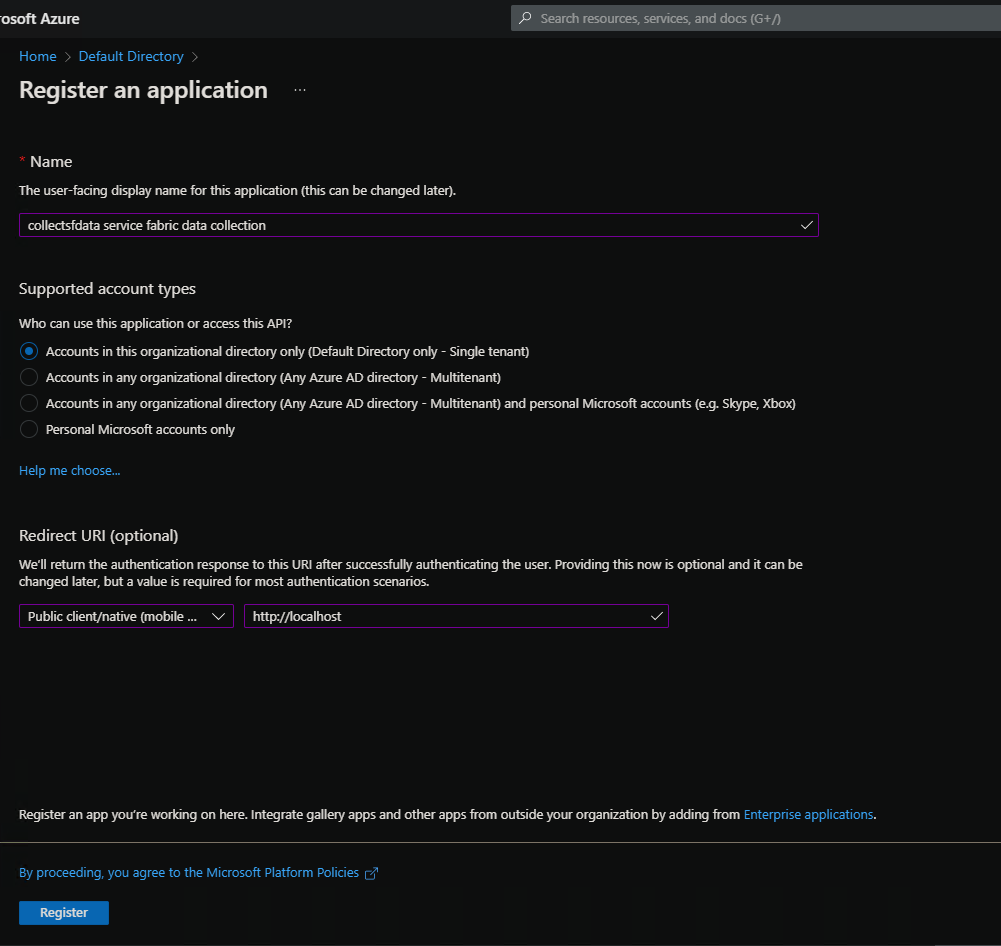
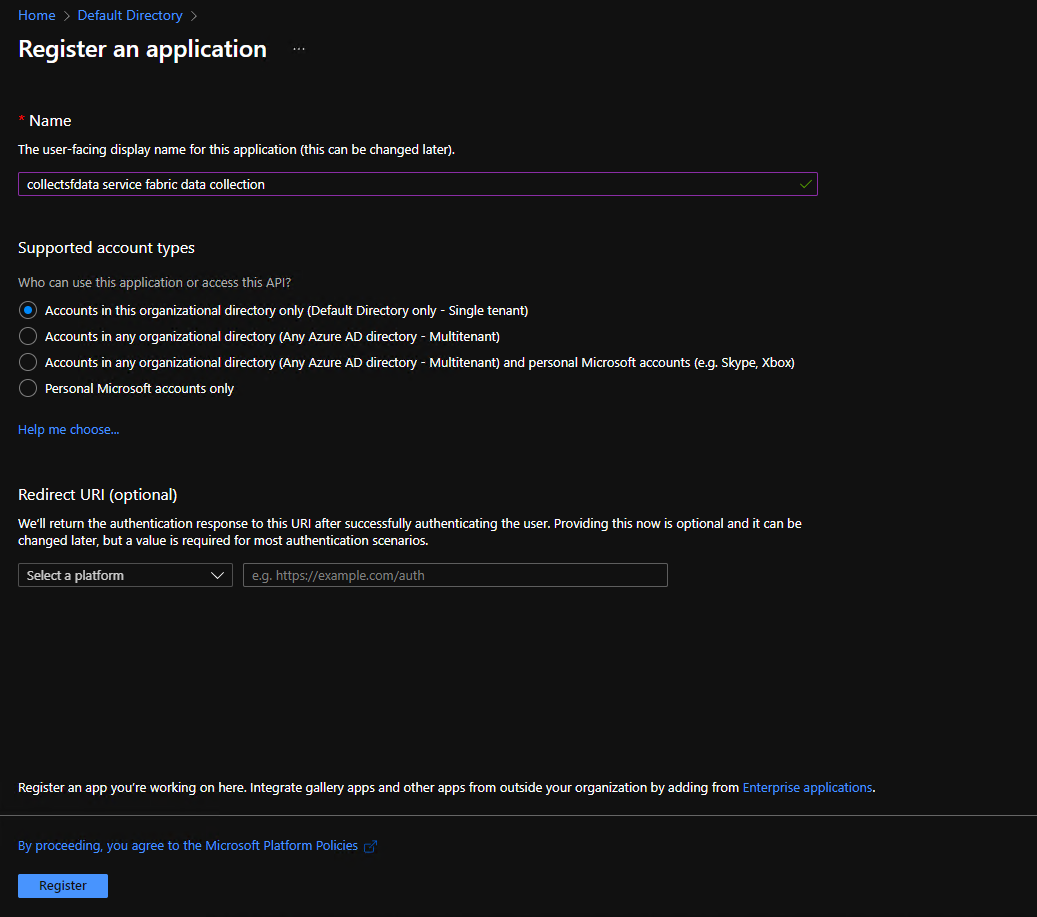
draft

diff --git a/docs/aad-configuration.md b/docs/aad-configuration.md
@@ -2,29 +2,41 @@
 
 Any application accessing Azure resources on behalf of a user requires an Azure Active Directory (AAD) application registration. CollectSFData accesses Azure Data Explorer (Kusto) or Azure resource information if using Log Analytics. For CollectSFData to function, an AAD app registration is required. CollectSFData parameter 'azureClientId' is set to the app registration 'Application (client) ID' guid value. Use steps below to setup Azure app registration for use with CollectSFData.
 
-An existing app registration that is configured for user_impersonation and user.read can be used instead of creating a new registration.
-
 ## Create Azure Active Directory Application Registration
 
 The following describes how to create an AAD app registration for use with CollectSFData for access to Azure resources and Kusto. Only required settings are configured for a default Azure subscription. Additional settings may be required for different environments.
 
-**NOTE: these steps may require AAD administrative permissions to complete depending on the configuration of Azure environment**
+**NOTE: these steps may require AAD administrative permissions to complete depending on the configuration of Azure environment and configuration being set below.**
 
 1. Open Azure portal https://portal.azure.com and navigate to 'Azure Active Directory' blade https://portal.azure.com/#blade/Microsoft_AAD_IAM/ActiveDirectoryMenuBlade/Overview  
 
     ![](media/azure-aad-overview.png)
 
-1. Select 'Add' to create a new application registration.  
+1. Select 'App registrations', 'New registration' https://portal.azure.com/#blade/Microsoft_AAD_IAM/ActiveDirectoryMenuBlade/RegisteredApps.  
 
-    ![](media/azure-add-registration.png)
+    ![](media/azure-app-registrations.png)
 
 1. Enter a descriptive name for new registration and 'Register'. In this example 'collectsfdata service fabric data collection' is used.  
 
-1. Select 'Public client' and enter 'http://localhost' for the redirect.
-
     ![](media/azure-register-application.png)  
 
-1. After creation, select 'API permissions' to modify permissions. By default. 'User.Read' permissions are already added.
+1. After app is registered, select 'Authentication', 'Add a platform'.  
+
+    ![](media/azure-app-authentication.png)
+
+1. Select 'Mobile and desktop applications'
+
+    ![](media/azure-app-configure-platforms.png)
+
+1. Select 'https://login.microsoftonline.com/common/oauth2/nativeclient' for the 'Redirect URIs' and 'Configure'.  
+
+    ![](media/azure-configure-desktop-devices.png)
+
+1. Authentication configuration should look same / similar to below.
+
+    ![](media/azure-app-authentication-configuration.png)
+
+1. Select 'API permissions' to modify permissions. By default, 'User.Read' permissions are already added.
 
     ![](media/azure-api-permissions.png)
 
@@ -40,11 +52,27 @@ The following describes how to create an AAD app registration for use with Colle
 
     ![](media/azure-api-permissions-configured.png)
 
+## (Optional) Add certificate as a client secret to app registration for non-interactive authentication
+
+For environments where CollectSFData utility executes non-interactively, for example if utility is called from a service, a client secret can be used to prevent interactive authentication prompt. Best practice is for a certificate to be used as a secret. If needed, use the steps below to add a certificate to app registration for use with non-interactive logon.
+
+## Add app registration to Kusto cluster and database
+
 
 ## Configuring CollectSFData to use App Registration
 
-After app registration has been created, copy the 'Application (client) ID' guid value. Set CollectSFData parameter 'azureClientId' to the guid value. This can be done via command line or json configuration file. see [configuration](./configuration.md).
+After app registration has been created, copy the 'Application (client) ID' guid value. Set CollectSFData parameter 'azureClientId' to the guid value and optionally 'azureClientSecret' to certificate base64 value. These values can be done via command line or json configuration file. See [configuration](./configuration.md).
+
+## Application consent
+
+By default, app registrations are configured to prompt one time either per application or per user to request consent. This can be changed in 'API permissions' of the app registration. This operation requires admin permissions in AAD.
+
+![](media/azure-app-grant-admin-consent.png)
+
+With the default setting to prompt, the following will be displayed upon the first successful logon. Selecting 'Consent on behalf of your organization' will prevent this prompt from displaying for any other users.  
+
+![](media/azure-app-registration-permissions-consent.png)
 
 ## Troubleshooting
 
-If app registration creation or api permission configuration fails, it is most likely due to insufficient permissions. Additional information should be available in the portal as to reason of failure. 
+If app registration creation or api permission configuration fails, it is most likely due to insufficient permissions. Additional information should be available in the portal as to reason of failure.  
